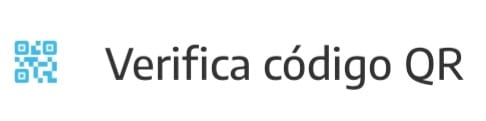
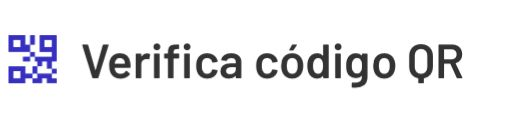
nueva version miargentina

Changed region(s): [[0.1543, 0.3684, 0.9568, 0.7895], [0.0, 0.2895, 0.1235, 0.7368]]

diff --git a/index.html b/index.html
@@ -2,42 +2,58 @@
 <html lang="en">
   <head>
     <meta charset="UTF-8" />
-    <meta name="viewport" content="width=device-width, initial-scale=1.0, user-scalable=no" />
+    <meta
+      name="viewport"
+      content="width=device-width, initial-scale=1.0, user-scalable=no"
+    />
     <title>Mi Argentina</title>
     <link rel="stylesheet" href="styles.css" />
-    <link rel="preconnect" href="https://fonts.googleapis.com">
-<link rel="preconnect" href="https://fonts.gstatic.com" crossorigin>
-<link href="https://fonts.googleapis.com/css2?family=Assistant:wght@200..800&family=Titillium+Web:ital,wght@0,200;0,300;0,400;0,600;0,700;0,900;1,200;1,300;1,400;1,600;1,700&display=swap" rel="stylesheet">
+    <link rel="preconnect" href="https://fonts.googleapis.com" />
+    <link rel="preconnect" href="https://fonts.gstatic.com" crossorigin />
+    <link
+      href="https://fonts.googleapis.com/css2?family=Barlow:ital,wght@0,100;0,200;0,300;0,400;0,500;0,600;0,700;0,800;0,900;1,100;1,200;1,300;1,400;1,500;1,600;1,700;1,800;1,900&display=swap"
+      rel="stylesheet"
+    />
+    "
   </head>
   <body>
     <header>
-      <a href="midocs.html"><img class="top" src="img/AAA.png" alt="flecha"></a>
+      <a href="midocs.html"
+        ><img class="top" src="img/AAA.jpg" alt="flecha"
+      /></a>
       <span></span>
     </header>
     <div class="a">
       <div class="b">Gerónimo Giordano</div>
-        <div class="flip-container">
-            <img class="dnii front" src="img/dni111.jpg" alt="dni" />
-            <img class="dnii back" src="img/dni222.jpg" alt="dni2" />
-        </div>
-      
+      <div class="flip-container">
+        <img class="dnii front" src="img/dni111.jpg" alt="dni" />
+        <img class="dnii back" src="img/dni222.jpg" alt="dni2" />
+      </div>
 
       <div class="d">
         <div class="dots">
           <span class="dot" id="dot1"></span>
           <span class="dot" id="dot2"></span>
         </div>
-        <div class="act"><div class="textact">Última actualización</div> <div class="displays"><div class=date_display id="dateDisplay"></div><div id="timeDisplay">hs</div></div></div></div>
-      
-      
-      
-      
-      
-      
-      <div class="e"><a href="detail.html"><img id="det" src="img/detalle2.jpg" alt="detalles" class="det" ></a></div>
-      <div class="f"><img src="img/desactivar2.jpg" alt="" class="des" /></div>
+        <div class="act">
+          <div class="textact">Última actualización</div>
+          <div class="displays">
+            <div class="date_display" id="dateDisplay"></div>
+            <div id="timeDisplay">hs</div>
+          </div>
+        </div>
+      </div>
+
+      <div class="e">
+        <a href="detail.html"
+          ><img id="det" src="img/detalle2.jpg" alt="detalles" class="det"
+        /></a>
+      </div>
+      <div class="f"><img src="img/desactivar3.jpg" alt="" class="des" /></div>
       <div class="g"><img src="img/qr.jpg" class="qr" alt="" /></div>
-      <div class="h"><img id="qr" src="img/flechinqr.jpg" class="flech" alt="" /></div>
+      <div class="h">
+        <img id="qr" src="img/flechinqr.jpg" class="flech" alt="" />
+      </div>
     </div>
     <script src="script.js"></script>
   </body>

diff --git a/styles.css b/styles.css
@@ -4,10 +4,13 @@ body {
   margin: 0;
   padding: 0;
   overflow: hidden;
-  font-family: "Titillium Web", sans-serif;
+  font-family: "Barlow", sans-serif;
+  font-weight: 700;
+  font-style: normal;
 }
 /* Disable blue highlight on touch for links and images */
-a, img {
+a,
+img {
   -webkit-tap-highlight-color: transparent;
 }
 body {
@@ -20,7 +23,7 @@ header {
   display: flex;
   align-items: center;
   padding-left: 4vw;
-  background-color: rgb(48, 113, 181);
+  background-color: rgb(55, 47, 194);
   height: 15vw;
 }
 .top {
@@ -77,7 +80,6 @@ header {
   border-top: 1.5px solid rgb(209, 209, 209);
 }
 .g {
-
   display: flex;
   align-items: center;
   border-top: 1.5px solid rgb(209, 209, 209);
@@ -86,7 +88,6 @@ header {
   padding-left: 10px;
 }
 .h {
-
   border-top: 1.5px solid rgb(209, 209, 209);
 
   display: flex;
@@ -102,7 +103,8 @@ header {
   margin-left: 25px;
 }
 .det {
-  width: 85%;
+  width: 65%;
+  height: 65%;
 }
 .des {
   width: 85%;
@@ -119,37 +121,37 @@ header {
   margin-left: 35px;
 }
 .flip-container {
-    display: flex;
-    position: relative;
-    grid-row: 2;
-    grid-column: 1/3;
-    width: 85%;
-    height:220px;
+  display: flex;
+  position: relative;
+  grid-row: 2;
+  grid-column: 1/3;
+  width: 85%;
+  height: 220px;
 }
 
 .dnii {
-    position: absolute;
-    width: 330px;
-    height: 200px;
-    backface-visibility: hidden;
-    transform-style: preserve-3d;
-    transition: transform 0.6s;
+  position: absolute;
+  width: 330px;
+  height: 200px;
+  backface-visibility: hidden;
+  transform-style: preserve-3d;
+  transition: transform 0.6s;
 }
 
 .front {
-    transform: rotateY(0deg);
+  transform: rotateY(0deg);
 }
 
 .back {
-    transform: rotateY(180deg);
+  transform: rotateY(180deg);
 }
 
 .flipped .front {
-    transform: rotateY(-180deg);
+  transform: rotateY(-180deg);
 }
 
 .flipped .back {
-    transform: rotateY(0deg);
+  transform: rotateY(0deg);
 }
 .dots {
   text-align: center;
@@ -166,5 +168,5 @@ header {
 }
 
 .dot.active {
-  background-color: rgb(88, 180, 219);
+  background-color: rgb(55, 47, 194);
 }
